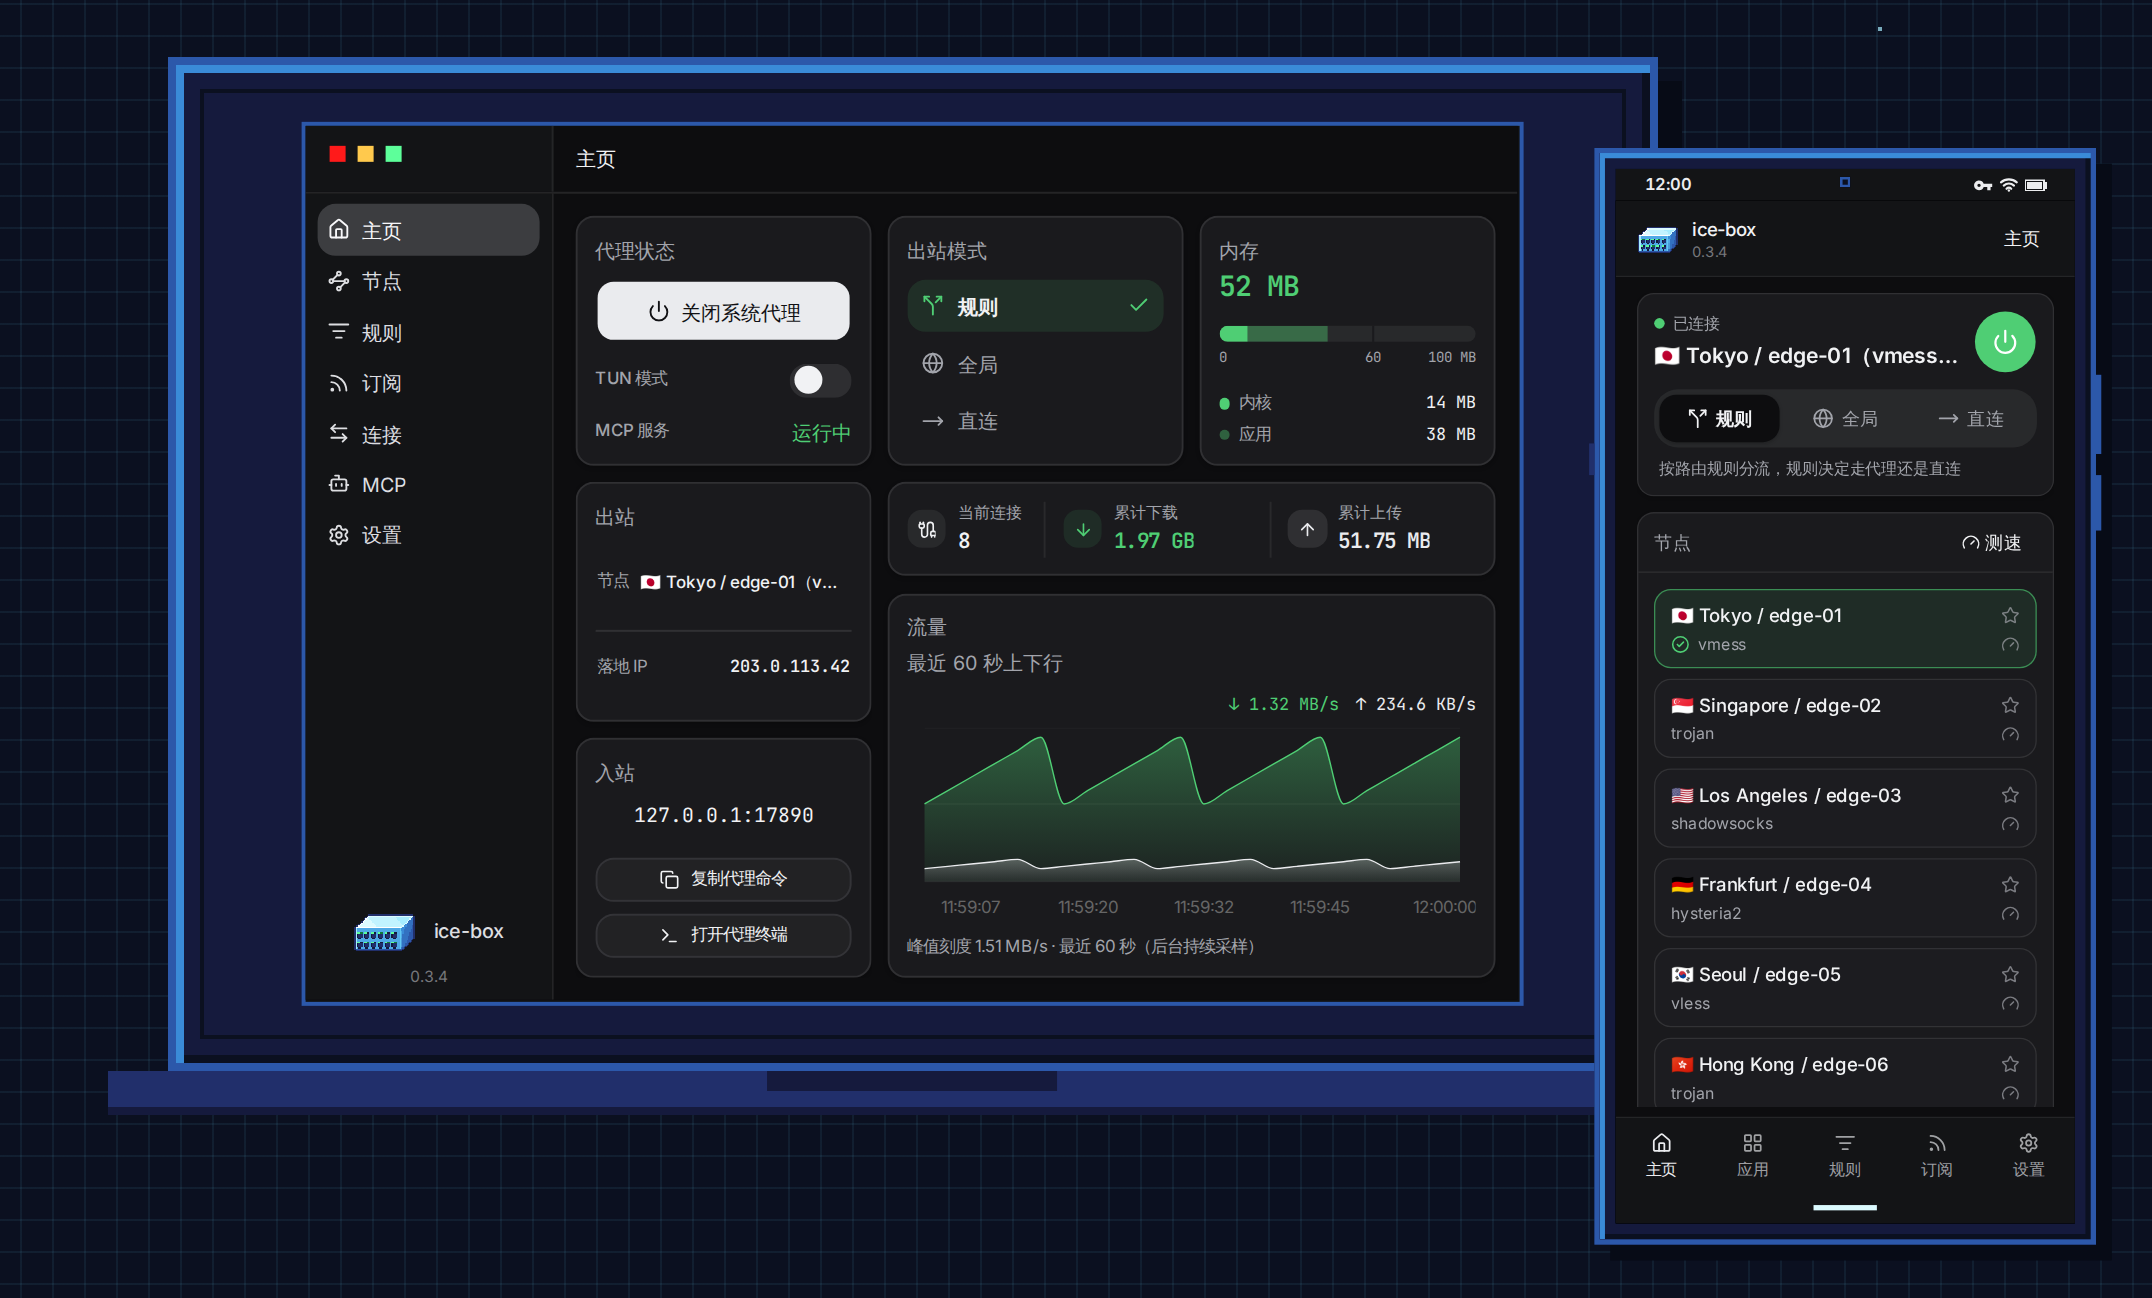
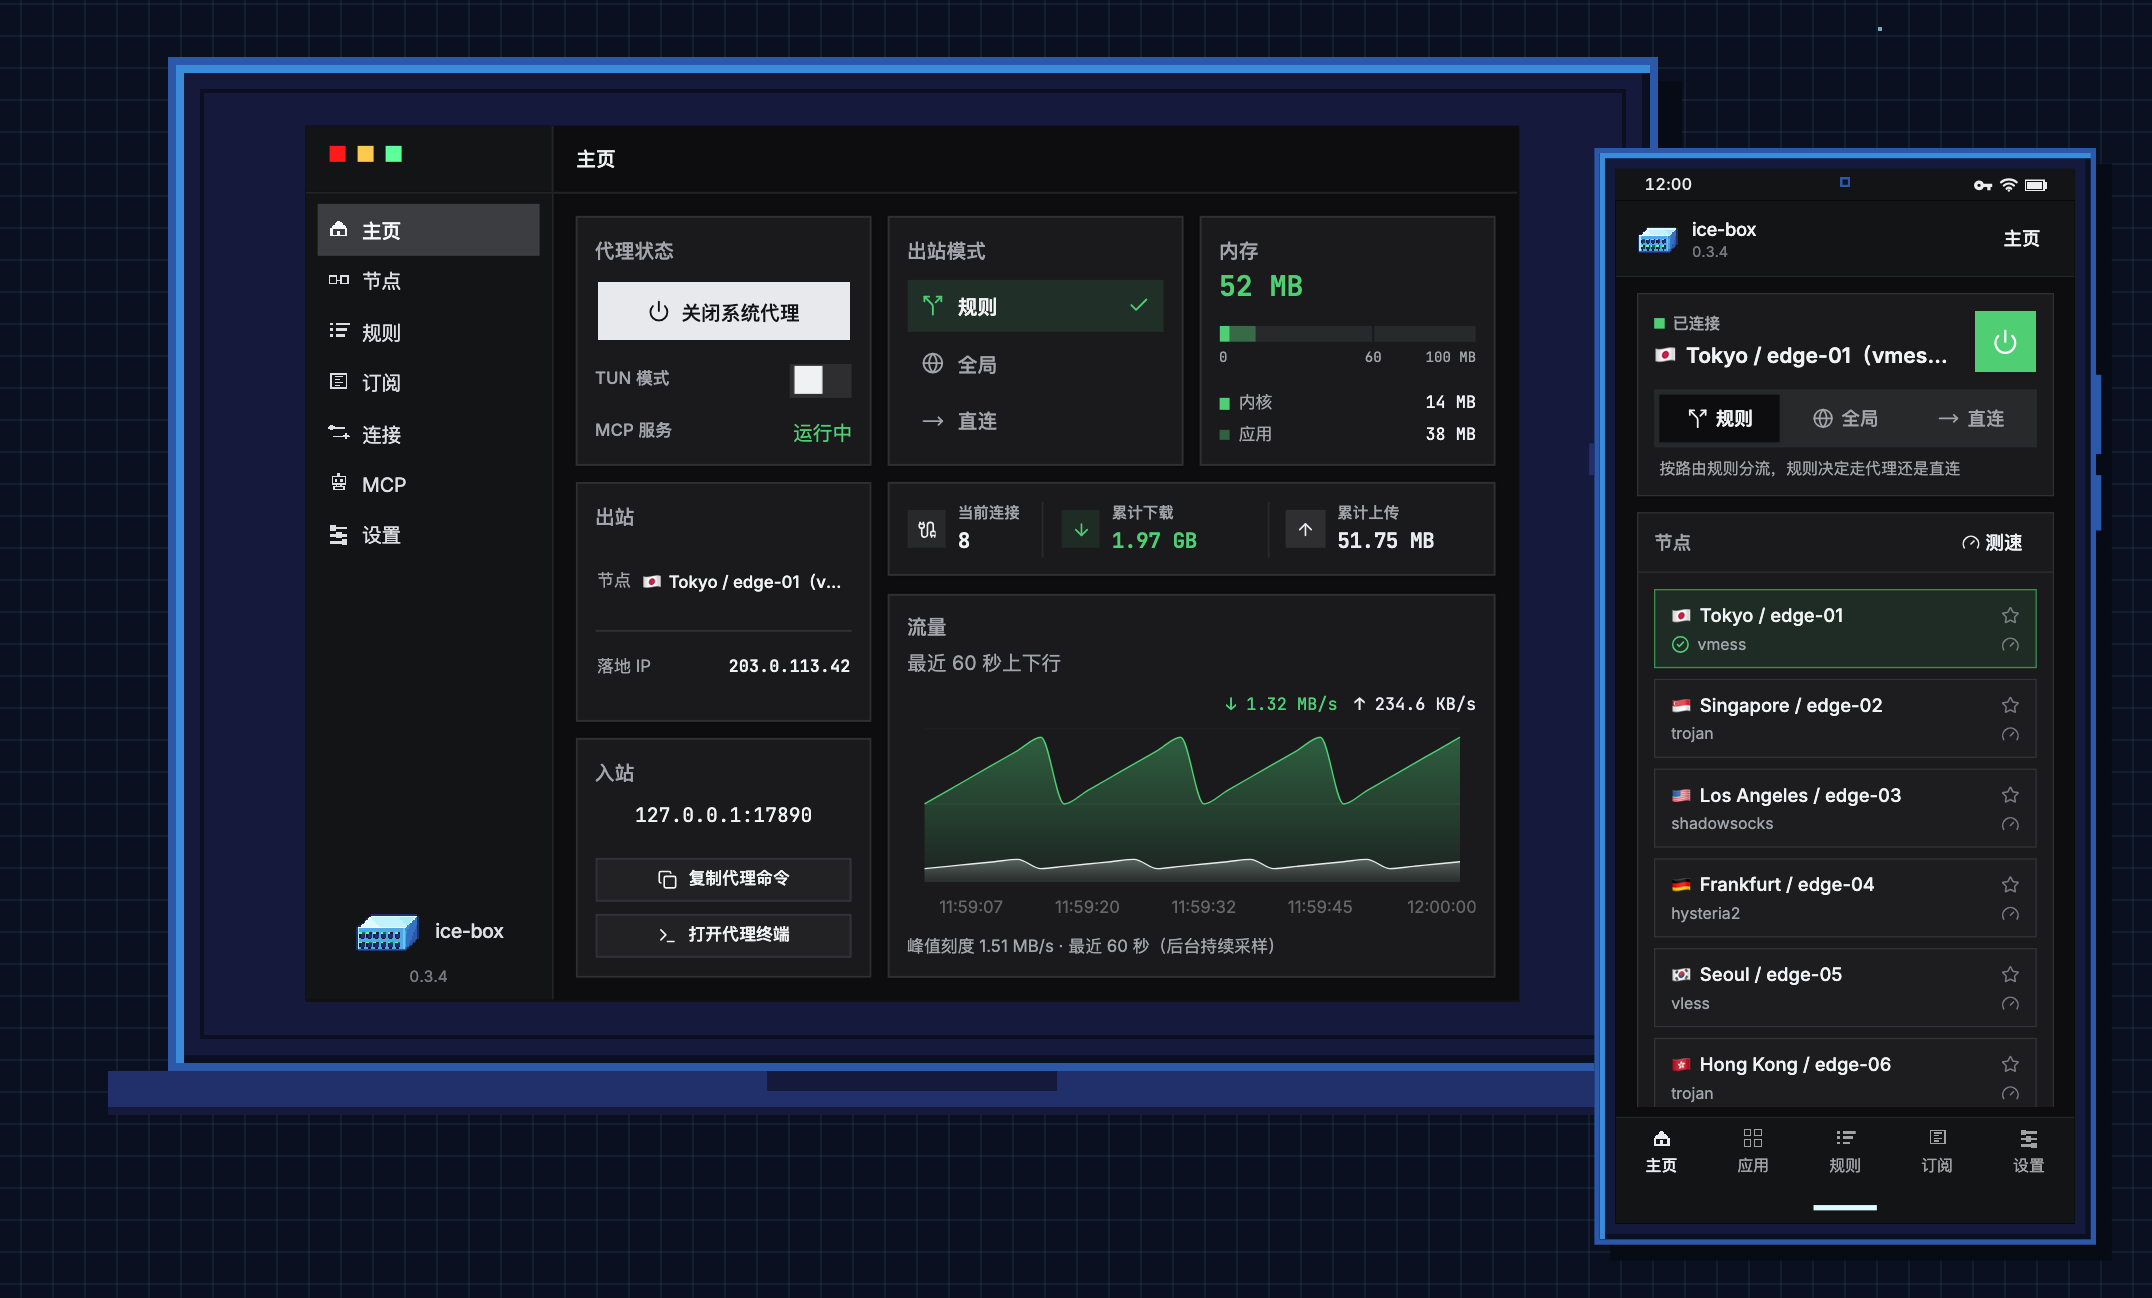
fix(website): drop the blue outline on the desktop Live Demo window
The laptop shell stays. Recapture the README hero so the product shot matches.

diff --git a/apps/website/src/style.css b/apps/website/src/style.css
@@ -551,7 +551,6 @@ main {
   transform: translate(-50%, -50%);
   overflow: hidden;
   background: #111;
-  box-shadow: 0 0 0 2px #2c58aa;
 }
 
 .demo-screen iframe {

diff --git a/CHANGELOG.md b/CHANGELOG.md
@@ -7,6 +7,7 @@ The format is based on [Keep a Changelog](https://keepachangelog.com/en/1.1.0/).
 
 ### Changed
 
+- The desktop Live Demo window no longer has a blue outline. The laptop shell is unchanged.
 - Sidebar and phone tab-bar icons are monochrome pixel glyphs. They take the
   button's text color. The buttons around them are unchanged.
 - Controls are square: buttons, cards, fields, dialogs, switches, dots, bars
